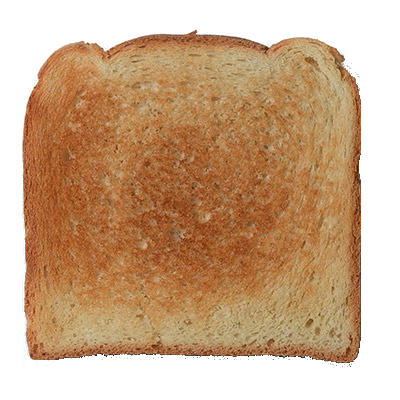
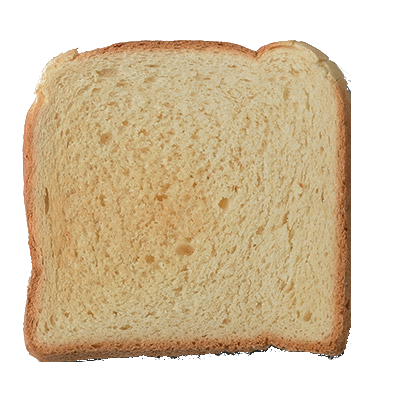
Added criteria toast image base.  Not yet added toppings.

diff --git a/src/toastGame/ViewInitializer.java b/src/toastGame/ViewInitializer.java
@@ -153,7 +153,7 @@ public class ViewInitializer implements Initializable {
 	}
 
 	/**
-	 * Takes the image to put on the toastStackPane, resize it to appropriate
+	 * Takes the image to put on the toastPane, resize it to appropriate
 	 * size, rotate and position it randomly on the toast
 	 * 
 	 * @param image
@@ -186,6 +186,14 @@ public class ViewInitializer implements Initializable {
 				amount--;
 			}
 		}
+	}
+	
+	void addCriteriaToast(Image image) {
+		ImageView imageview = new ImageView(image);
+		
+		imageview.setFitHeight(100);
+		imageview.setPreserveRatio(true);
+		criteriaToastPane.getChildren().add(imageview);
 	}
 
 	/**

diff --git a/src/toastGame/Tory.java b/src/toastGame/Tory.java
@@ -57,6 +57,7 @@ public class Tory {
 		criteriaToast.toast(toastiness);
 		
 		view.addCriteria(getCriteriaString());
+		view.addCriteriaToast(this.getToastImage());
 	}
 
 	/**
@@ -117,7 +118,10 @@ public class Tory {
 	 * @return
 	 */
 	Image getToastImage() {
-		return null;
+		int toastiness = criteriaToast.getToastiness();
+		Image toast = new Image(getClass().getResource("images/toastlevel"+ toastiness +".png").toExternalForm());
+		return toast;
+		
 	}
 
 	/**
